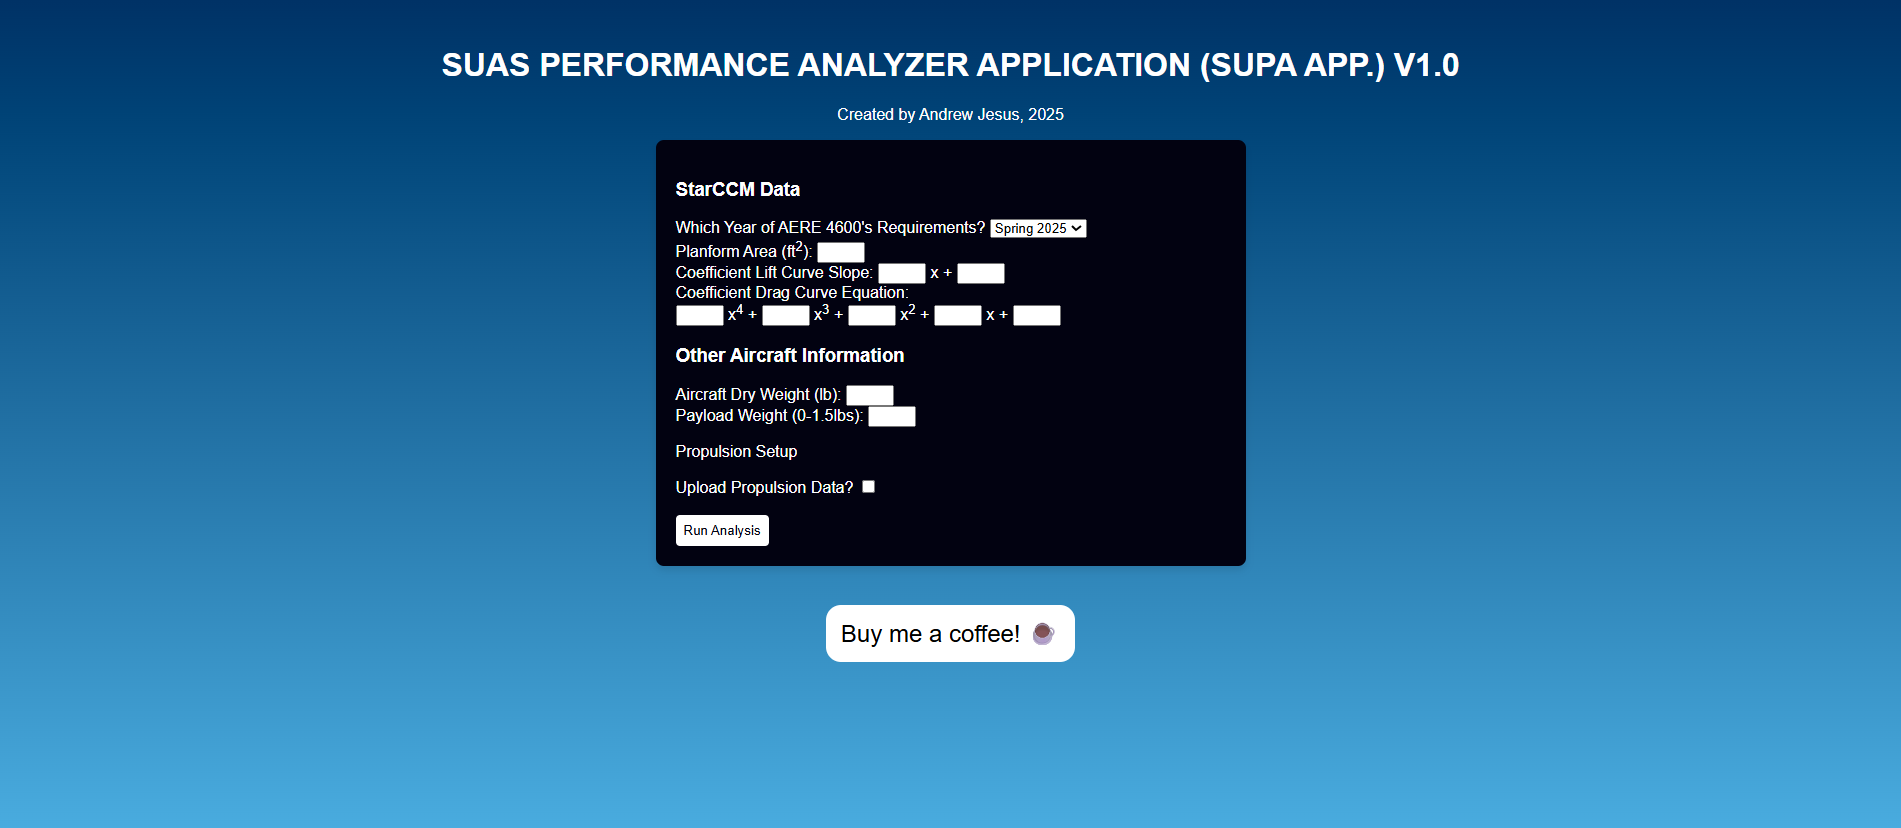
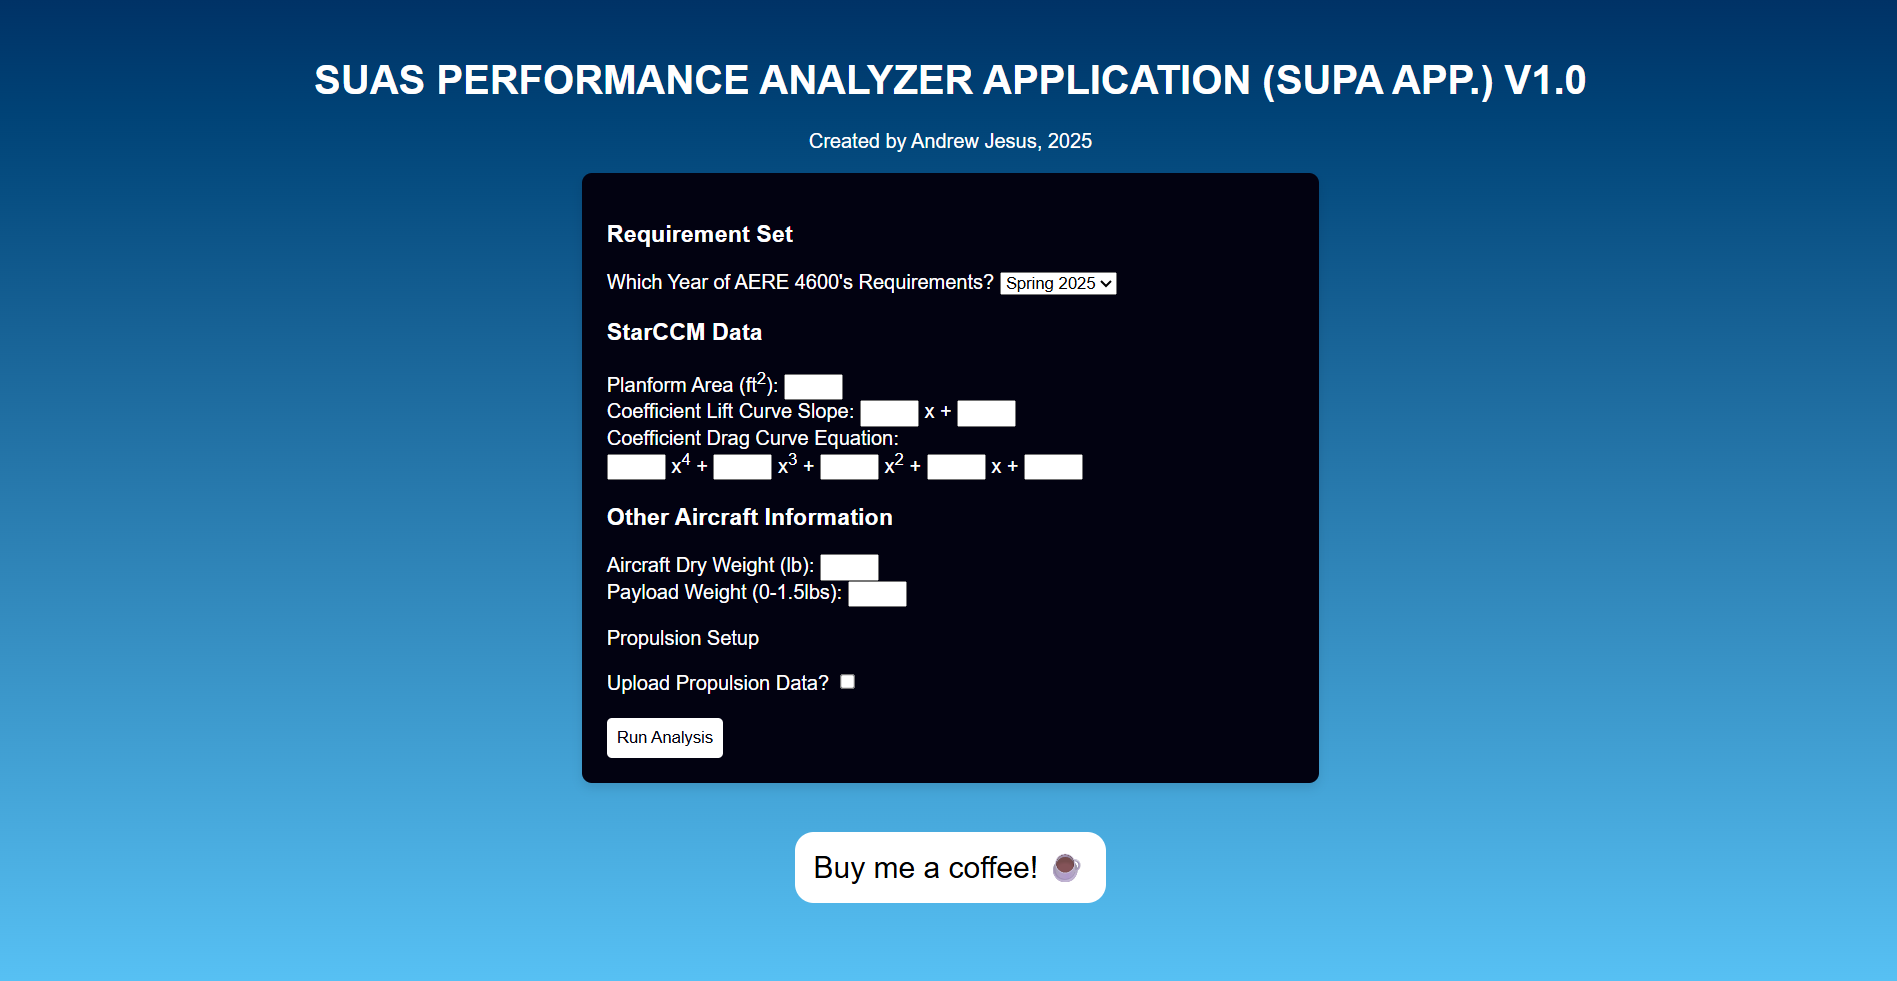
testing images

Changed region(s): [[0.1555, 0.0604, 0.8397, 0.8152], [0.4043, 0.8454, 0.5909, 0.936]]

diff --git a/index.html b/index.html
@@ -36,7 +36,7 @@
         <label for="pWeight">Payload Weight (0-1.5lbs): </label>
         <input type="text" id="pWeight"><br>
     
-        <p>Propulsion Setup</p>
+        <h3>Propulsion Setup</h3>
         
         <label for="uploadToggle">Upload Propulsion Data?</label>
         <input type="checkbox" id="uploadToggle"><br><br>

diff --git a/README.md b/README.md
@@ -76,5 +76,5 @@ open index.html   # or just double-click index.html
 
 ## Screenshots / Demo
 On the landing page 
-![Landing Page](assets/demo_img/)
+![Landing Page](assets/demo_img/landingPage.png)
 ## License
